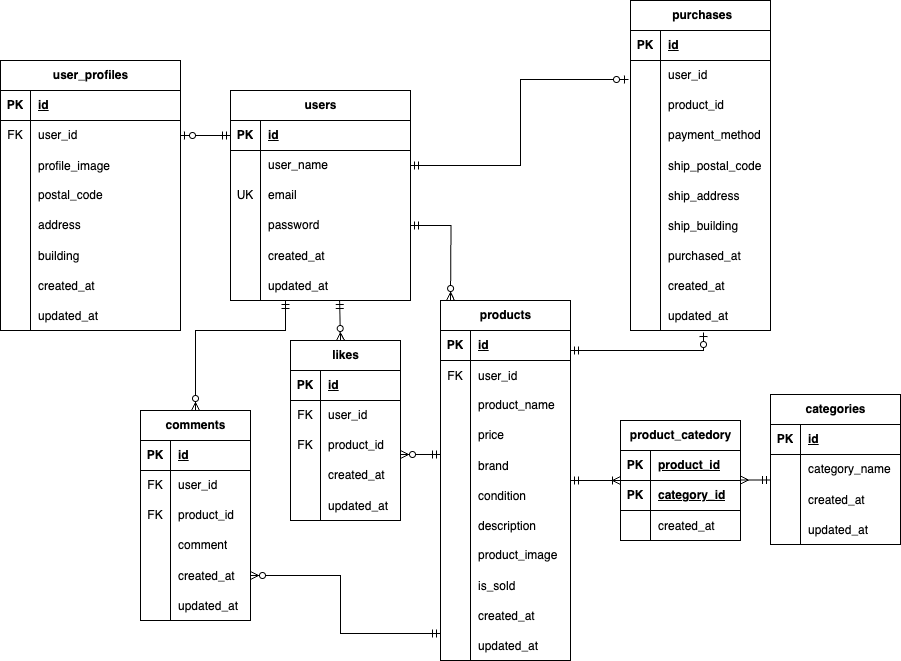
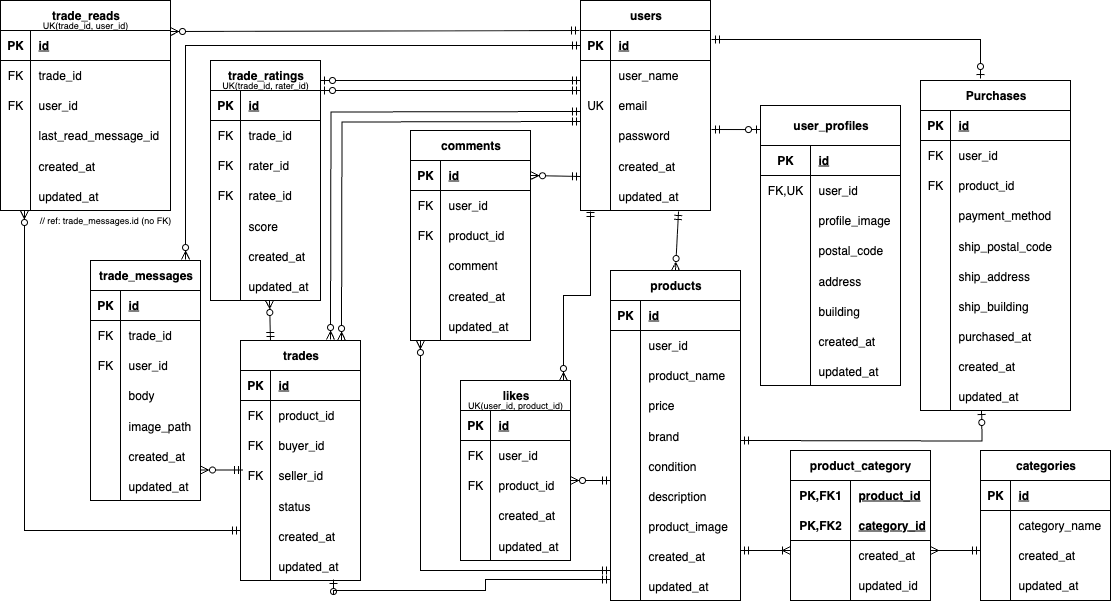
UK追加、README更新

diff --git a/src/database/migrations/2025_08_31_110041_add_unique_constraints_to_core_tables.php b/src/database/migrations/2025_08_31_110041_add_unique_constraints_to_core_tables.php
@@ -1,0 +1,30 @@
+<?php
+
+// database/migrations/2025_09_01_000000_add_uniques.php
+use Illuminate\Database\Migrations\Migration;
+use Illuminate\Database\Schema\Blueprint;
+use Illuminate\Support\Facades\Schema;
+
+return new class extends Migration {
+    public function up(): void {
+        Schema::table('trade_reads', function (Blueprint $t) {
+            $t->unique(['trade_id','user_id'], 'trade_reads_trade_user_unique');
+        });
+        Schema::table('likes', function (Blueprint $t) {
+            $t->unique(['user_id','product_id'], 'likes_user_product_unique');
+        });
+        Schema::table('trade_ratings', function (Blueprint $t) {
+            $t->unique(['trade_id','rater_id'], 'ratings_trade_rater_unique');
+        });
+        Schema::table('user_profiles', function (Blueprint $t) {
+            $t->unique('user_id', 'profiles_user_unique');
+        });
+    }
+
+    public function down(): void {
+        Schema::table('trade_reads', fn (Blueprint $t) => $t->dropUnique('trade_reads_trade_user_unique'));
+        Schema::table('likes', fn (Blueprint $t) => $t->dropUnique('likes_user_product_unique'));
+        Schema::table('trade_ratings', fn (Blueprint $t) => $t->dropUnique('ratings_trade_rater_unique'));
+        Schema::table('user_profiles', fn (Blueprint $t) => $t->dropUnique('profiles_user_unique'));
+    }
+};

diff --git a/src/database/migrations/2025_08_28_024106_create_trade_reads_table.php.php b/src/database/migrations/2025_08_28_024106_create_trade_reads_table.php.php
@@ -1,5 +1,5 @@
 <?php
-// database/migrations/2025_08_28_000020_create_trade_reads_table.php
+
 use Illuminate\Database\Migrations\Migration;
 use Illuminate\Database\Schema\Blueprint;
 use Illuminate\Support\Facades\Schema;
